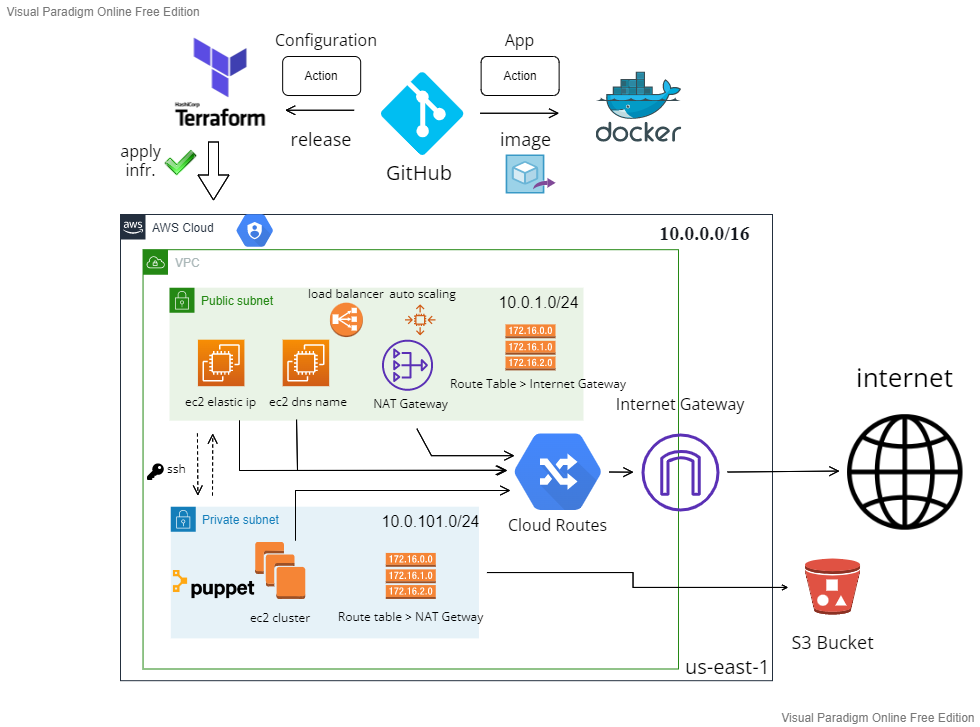
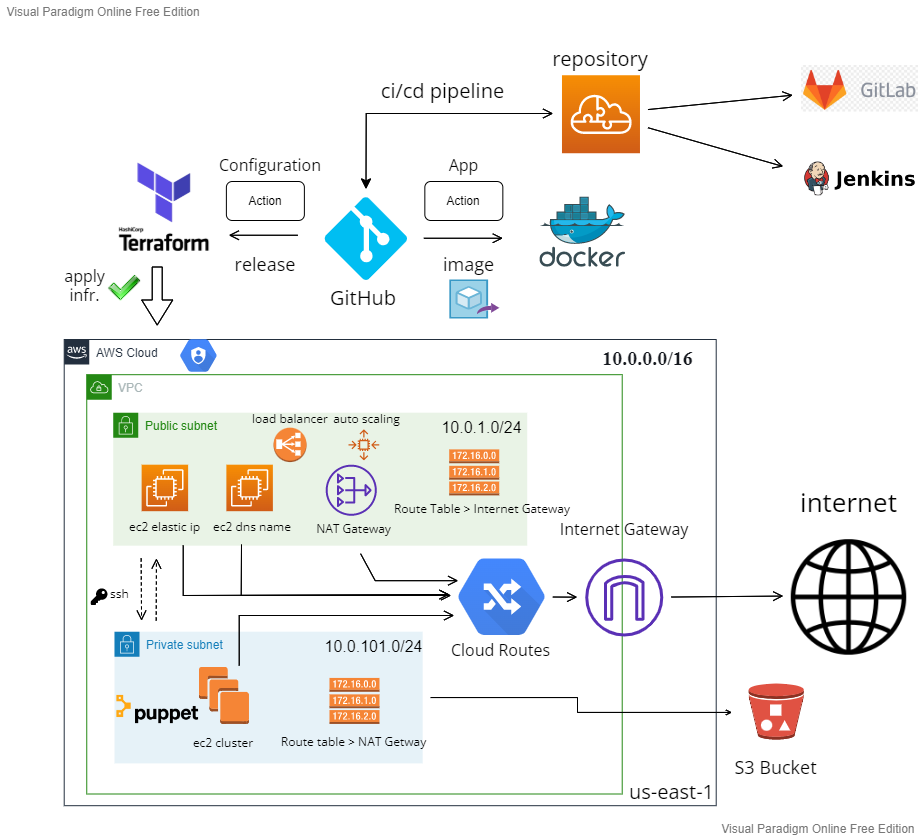
edit readme and png

diff --git a/README.md b/README.md
@@ -1,19 +1,59 @@
-### Infrastructure with AWS Cloud 
+## Infrastructure with AWS Cloud 
 ![alt text](https://github.com/obetsa/go-getweather/blob/main/go-getweather.png?raw=true)
+Folder structure:
+./
+├─ config
+│  └─ (create structure files)
+└ application
 
-### Application (CI/CD)
-## Terraform
+Steps:
+1. Create application
+2. Add to github
+3. Create docker image and add to dockerhub
+4. Create docker-compose.yml
+5. Create terraform organization
+6. Create new user AWS for project and key (IAM Role)
+7. Create bash script for service doker in ec2
+8. Variable set(terraform, git..etc)
+9. Create terraform infrastructure (first init)
+10. Publish release(git)
+11. Add auto-scaling group and load balancer to AWS
+12. Create cluster group in privat subnet 
+13. Crete S3 bucket
+14. Use Puppet in cluster group
+15. Add HAProxy 80:8080 for ec2 machine(http)
+16. Attach Gitlub to project
+17. Attach Jenkins to project
+Will finish later:
+18. Add aws cloud front(for metrics)
+19. Open 443 port(https) and create certificate
+20. AWS lambda function to get logs from ec2 and push it in to S3 bucket
+
+To crete project:
+ - git clone https://github.com/obetsa/go-getweather
+ - go to folder ./go-getweather/config
+ - use terraform
+
+### Terraform
 terraform init
 terraform apply
-## Kubernetes
+
+### Kubernetes
 kubectl apply -f .
 
-### Application (Coding)
-## go-getweather  -  simple weather application for getting your current forecast
+### Docker
+Dockerhub image:
+sudo docker run -d --restart always -p 8080:8080 obetsa/go-getweather:latest
+
+## Application (CI/CD)
+Uses Gitlab and Jenkins as a part of project
+ - https://gitlab.com/obetsa/go-getweather
+
+## Application (Coding)
+Application :
+go-getweather  -  simple weather application for getting your current forecast
+Use:
 - Golang / Gin
 - Java Script / Axios
 - Bootstrap 5
 - API by www.weatherapi.com
-
-## Docker
-sudo docker run -d --restart always -p 8080:8080 obetsa/go-getweather:latest
